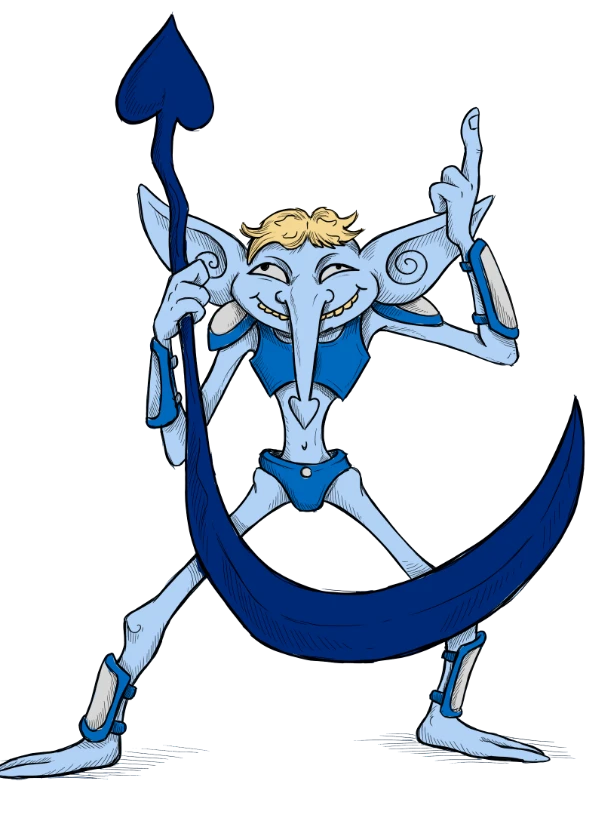
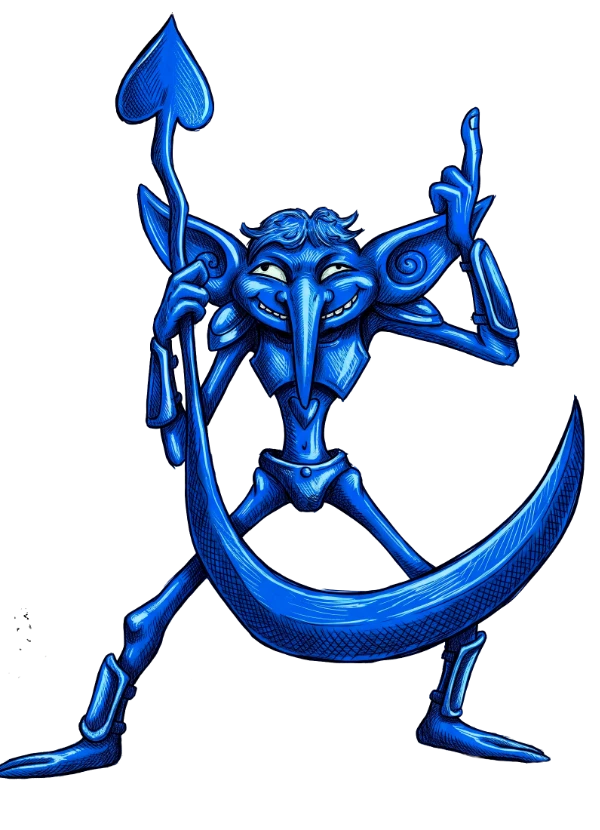
Valete de Espadas: arte nova

Changed region(s): [[0.0, 0.0, 0.99, 0.9639]]

diff --git a/index.html b/index.html
@@ -14,7 +14,7 @@
   <link rel="preload" href="arte/menu/papelao.webp" as="image">
   <link rel="preload" href="arte/menu/naipes.webp" as="image">
   <link rel="preload" href="arte/menu/logo.webp" as="image">
-  <link rel="stylesheet" href="estilo.css?v=202610272342">
+  <link rel="stylesheet" href="estilo.css?v=202610272352">
 </head>
 <body>
   <div id="palco">
@@ -67,20 +67,20 @@
   <div id="modal" hidden></div>
   <div id="dica" hidden></div>
 
-  <script defer src="js/idioma.js?v=202610272342"></script>
-  <script defer src="js/libs.js?v=202610272342"></script>
-  <script defer src="js/motor.js?v=202610272342"></script>
-  <script defer src="js/palhacos.js?v=202610272342"></script>
-  <script defer src="js/pesos.js?v=202610272342"></script>
-  <script defer src="js/bot.js?v=202610272342"></script>
-  <script defer src="js/cartas.js?v=202610272342"></script>
-  <script defer src="js/som.js?v=202610272342"></script>
-  <script defer src="js/dados3d.js?v=202610272342"></script>
-  <script defer src="js/decks.js?v=202610272342"></script>
-  <script defer src="js/regras.js?v=202610272342"></script>
-  <script defer src="js/rede.js?v=202610272342"></script>
-  <script defer src="js/decoracao.js?v=202610272342"></script>
-  <script defer src="js/tutorial.js?v=202610272342"></script>
-  <script defer src="js/interface.js?v=202610272342"></script>
+  <script defer src="js/idioma.js?v=202610272352"></script>
+  <script defer src="js/libs.js?v=202610272352"></script>
+  <script defer src="js/motor.js?v=202610272352"></script>
+  <script defer src="js/palhacos.js?v=202610272352"></script>
+  <script defer src="js/pesos.js?v=202610272352"></script>
+  <script defer src="js/bot.js?v=202610272352"></script>
+  <script defer src="js/cartas.js?v=202610272352"></script>
+  <script defer src="js/som.js?v=202610272352"></script>
+  <script defer src="js/dados3d.js?v=202610272352"></script>
+  <script defer src="js/decks.js?v=202610272352"></script>
+  <script defer src="js/regras.js?v=202610272352"></script>
+  <script defer src="js/rede.js?v=202610272352"></script>
+  <script defer src="js/decoracao.js?v=202610272352"></script>
+  <script defer src="js/tutorial.js?v=202610272352"></script>
+  <script defer src="js/interface.js?v=202610272352"></script>
 </body>
 </html>

diff --git a/js/cartas.js b/js/cartas.js
@@ -26,7 +26,7 @@ window.SS = window.SS || {};
   // Borda preta na beirada da carta: a do desenho é fina demais (cerca de 1 px numa carta da mão) e sumia.
   const BORDA = '<rect x="2.2" y="2.2" width="195.6" height="275.6" rx="15" fill="none" stroke="#141414" stroke-width="4.5"/>';
   // Versão das imagens das cartas (trocar quando um arquivo mudar com o mesmo nome, para o navegador não usar o antigo).
-  const V_ARTE = '?v=3';
+  const V_ARTE = '?v=4';
 
   // Fundo da carta: uma das 4 variações desenhadas, sempre a mesma para a mesma carta (rank + naipe).
   const FUNDOS = ['a', 'b', 'c', 'd'];
